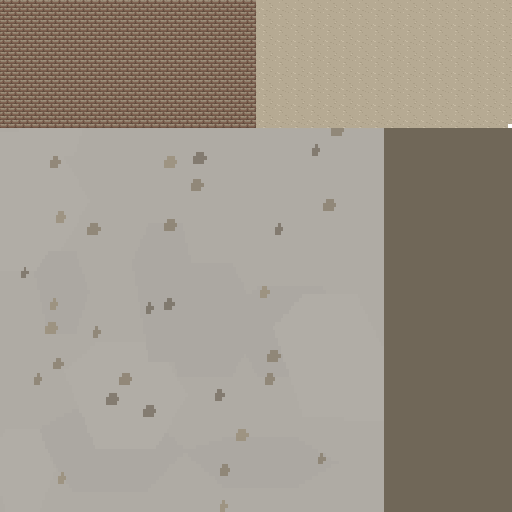
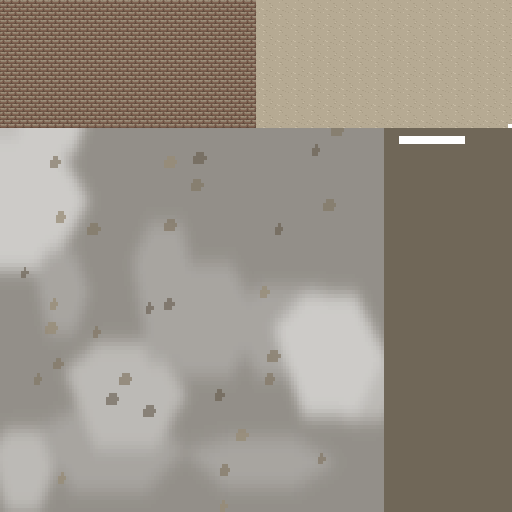
Reduce wreck border geometry and refine patchy ground

diff --git a/src/building_lowpoly.js b/src/building_lowpoly.js
@@ -32,7 +32,7 @@
     wreck:{tint:0xb3a89e,roofTint:0xc5c2bc,debris:0x8f857a,beam:0x7d8b95,top:0xaa9b88,highlight:0xc2b29a,shadow:0x8c7d6b,mortar:0xaa9b88,ink:0x000000}};
   // The light of a wreck's inner wall faces and rubble floor: the middle cel step.
   const WRECK_INSIDE_LIGHT=.7;
-  const WRECK_BORDER={color:0x5e574a,alpha:.35,width:3};
+  const WRECK_BORDER={color:0x514a3e,alpha:.6,width:5,period:64,maskX:400,maskY:136};
   const mix=(a,b,t)=>{const c=i=>Math.round(((a>>i)&255)*(1-t)+((b>>i)&255)*t);return (c(16)<<16)|(c(8)<<8)|c(0);};
   const hash=(x,y)=>{let h=(x*374761393+y*668265263)|0;h=(h^(h>>>13))*1274126177;return ((h^(h>>>16))>>>0)/4294967296;};
   // Cell order of assets/Objects/BuildingMaterials/reference-materials-v3.png.
@@ -599,23 +599,25 @@
         points.forEach((a,i)=>{const b=points[(i+1)%points.length];if((a.y>p.y)!==(b.y>p.y)&&p.x<a.x+(b.x-a.x)*(p.y-a.y)/(b.y-a.y))hit=!hit;});return hit;};
       // Flat ground follows the exact triangulated footprint, including concave returns.
       for(const t of triangulate(points).triangles)faces.push({kind:'roof',debris:true,layer:-1,color:0xffffff,light:1,rawUV:true,points:(cross(...t)<0?[...t].reverse():t).map(p=>({...p,z:0,u:1+(p.x-xlo)/Math.max(1,xhi-xlo)*382,v:129+(p.y-ylo)/Math.max(1,yhi-ylo)*382}))});
-      // A light, translucent broken trace follows the footprint. Seeded dash
-      // lengths and gaps make it weathered rather than a continuous outline.
+      // One masked strip per texture repeat replaces the separate dash quads.
+      // The shared atlas supplies the gaps; no per-building texture bake or
+      // custom shader is needed, and the seeded phase keeps edges varied.
       const border=(poly)=>{
         if(cross(poly[0],poly[1],poly[2])<0)poly=[...poly].reverse();
         for(let i=1;i<poly.length-1;i++)faces.push({kind:'trim',debris:true,footprintBorder:true,
-          layer:-.8,color:WRECK_BORDER.color,opacity:WRECK_BORDER.alpha,light:1,solid:true,
-          points:[poly[0],poly[i],poly[i+1]].map(p=>({...p,z:.01,u:510,v:126}))});
+          layer:-.8,color:WRECK_BORDER.color,opacity:WRECK_BORDER.alpha,light:1,rawUV:true,
+          points:[poly[0],poly[i],poly[i+1]].map(p=>({...p,z:.01}))});
       };
       ring.forEach((a,i)=>{const b=ring[(i+1)%ring.length],len=Math.hypot(b.x-a.x,b.y-a.y)||1;
         const dx=(b.x-a.x)/len,dy=(b.y-a.y)/len,nx=-dy*WRECK_BORDER.width/2,ny=dx*WRECK_BORDER.width/2;
-        let at=1+random(i,83)*4;
-        for(let j=0;at<len-1;j++){
-          const end=Math.min(len-1,at+4+random(i*97+j,89)*4);
+        const phase=Math.floor(random(i,83)*WRECK_BORDER.period);
+        for(let at=1;at<len-1;){
+          const start=(phase+at)%WRECK_BORDER.period,end=Math.min(len-1,at+WRECK_BORDER.period-start);
           const p={x:a.x+dx*at,y:a.y+dy*at},q={x:a.x+dx*end,y:a.y+dy*end};
-          border([{x:p.x+nx,y:p.y+ny},{x:q.x+nx,y:q.y+ny},
-            {x:q.x-nx,y:q.y-ny},{x:p.x-nx,y:p.y-ny}]);
-          at=end+5+random(i*97+j,97)*4;
+          const u0=WRECK_BORDER.maskX+start,u1=u0+end-at,v0=WRECK_BORDER.maskY+1,v1=v0+6;
+          border([{x:p.x+nx,y:p.y+ny,u:u0,v:v0},{x:q.x+nx,y:q.y+ny,u:u1,v:v0},
+            {x:q.x-nx,y:q.y-ny,u:u1,v:v1},{x:p.x-nx,y:p.y-ny,u:u0,v:v1}]);
+          at=end;
         }
       });
       // Chunks of fallen wall: low turned blocks with wall-top lids and end-face
@@ -1072,7 +1074,9 @@
     ctx.imageSmoothingEnabled=false;
     ctx.fillStyle='#968a76';ctx.fillRect(0,0,512,128);
     ctx.fillStyle='#b6aa93';ctx.fillRect(256,0,256,128);
-    ctx.fillStyle='rgba(95,87,74,0.5)';ctx.fillRect(0,128,512,384);
+    ctx.fillStyle='rgba(76,70,59,0.6)';ctx.fillRect(0,128,512,384);
+    ctx.clearRect(399,136,66,8);ctx.fillStyle='#ffffff';
+    for(const [x,w] of [[0,7],[13,5],[26,8],[39,6],[52,4],[64,1]])ctx.fillRect(400+x,136,w,8);
     ctx.fillStyle='#ffffff';ctx.fillRect(508,124,4,4);
     tex.refresh();tex.setFilter(Phaser.Textures.FilterMode.NEAREST);return tex;
   }
@@ -1801,7 +1805,8 @@
     if(recipe.interior)cached=interiorGeometry(cached,LOOK.wallThickness);
     if(door&&!recipe.interior)cached={...cached,faces:[...cached.faces,...doorFaces(door)]};
     const texture=skin?skin.texture:authored?(authored.texture||authored.faces[0].texture):material(scene,recipe),insideTexture=recipe.shape==='wreck'?wreckInteriorSheet(scene,recipe):recipe.interior&&!skin?interiorSheet(scene,texture,recipe):texture;
-    if(!authored&&!skin){(state.textures||=new Set()).add(texture.key);state.textures.add(insideTexture.key);}
+    const borderTexture=recipe.shape==='wreck'?wreckInteriorSheet(scene):null;
+    if(!authored&&!skin){(state.textures||=new Set()).add(texture.key);state.textures.add(insideTexture.key);if(borderTexture)state.textures.add(borderTexture.key);}
     // A standing building is ONE render object sorted at its footprint
     // near edge in the player's screen column. An INTERIOR (Home
     // while the player is inside) is one object PER WALL (interiorGeometry's
@@ -1886,7 +1891,7 @@
         face.color=face.kind==='wall'?0xffffff:recipe.body;
       // The untextured look (LOOK.textured=false) draws each face in its base colour.
       face.flat=face.tileCap?mix(recipe.roof,0x2a2229,.12):face.kind==='roof'&&!face.solid?recipe.roof:face.kind==='wall'?(face.chimney&&recipe.role!=='blacksmith'?LOOK.chimney.sides:recipe.body):face.color??recipe.trim;
-      face.preserveWalls=recipe.role==='fort'||!!face.chimney;face.eaveHeight=mesh.eaveHeight??mesh.height;face.support=support;face.texture=face.interior||face.wreckMasonry||face.wallTop||face.debris||face.steel?insideTexture:texture;face.x=left;face.y=top;face.projected=face.points.map(()=>({}));state.faces.push(face);}
+      face.preserveWalls=recipe.role==='fort'||!!face.chimney;face.eaveHeight=mesh.eaveHeight??mesh.height;face.support=support;face.texture=face.footprintBorder?borderTexture:face.interior||face.wreckMasonry||face.wallTop||face.debris||face.steel?insideTexture:texture;face.x=left;face.y=top;face.projected=face.points.map(()=>({}));state.faces.push(face);}
     return mesh;
     }
   }

diff --git a/test/node/building_lowpoly_scene.test.js b/test/node/building_lowpoly_scene.test.js
@@ -25,7 +25,7 @@
     assert.truthy(BuildingLowPoly.specialGeometry(ring, recipe, [[{x:-40,y:-30},{x:110,y:-30}]], 'walking-cache') !== first,
       'a changed street changes the opening');
   });
-  const ctx2d = () => ({ fillStyle: '', fillRect() {}, drawImage() {}, save() {}, restore() {}, beginPath() {},
+  const ctx2d = () => ({ fillStyle: '', fillRect() {}, clearRect() {}, drawImage() {}, save() {}, restore() {}, beginPath() {},
     rect() {}, clip() {}, imageSmoothingEnabled: false, putImageData() {}, createPattern() { return {}; },
     getImageData() { throw new Error('getImageData read back during a rebuild'); } });
   function stubScene() {
@@ -74,7 +74,7 @@
   }));
   test('Dreamland wrecks: native materials keep damaged geometry and never allocate during rebuild', () => withPhaser(() => {
     const scene=stubScene(),plain=BuildingLowPoly.recipeFor('wreck'),recipe={...plain,artProfile:'dreamland'};
-    for(const key of ['dreamland_wreck_material','dreamland_wreck_interior']) scene.textures.createCanvas(key,512,512);
+    for(const key of ['dreamland_wreck_material','dreamland_wreck_interior','wreck_plinth']) scene.textures.createCanvas(key,512,512);
     scene.textures.createCanvas=()=>{throw Error('Dreamland wreck attempted a runtime material bake');};
     const local=FOOT.map(p=>({x:p.x-100,y:p.y-100}));
     const normal=BuildingLowPoly.specialGeometry(local,plain,[],'dreamland-wreck');
@@ -88,7 +88,7 @@
     assert.truthy(masonry.length>0&&masonry.every(f=>f.texture.key==='dreamland_wreck_interior'),
       'stone sides and caps use the native interior masonry atlas');
     assert.truthy(mesh.faces.some(f=>f.texture.key==='dreamland_wreck_interior'),'interior masonry / rubble atlas selected');
-    assert.truthy(mesh.faces.every(f=>f.texture.key.startsWith('dreamland_wreck_')),'no legacy material leak');
+    assert.truthy(mesh.faces.every(f=>f.footprintBorder?f.texture.key==='wreck_plinth':f.texture.key.startsWith('dreamland_wreck_')),'no legacy material leak');
     assert.falsy(mesh.faces.some(f=>f.standingRoof||f.fallenRoof||f.rafter||f.beam||f.steel),'native profile keeps the roofless broken plinth');
     assert.truthy(mesh.faces.some(f=>f.rubbleTop&&f.rawUV&&f.color===0xffffff),'debris samples native masonry without a tint');
   }));
@@ -108,7 +108,7 @@
     assert.truthy(native!==baseline,'palette cache isolated');
     BuildingLowPoly.begin(scene);
     const mesh=BuildingLowPoly.add(scene,FOOT,recipe,'ridge','rogue-wreck');
-    assert.truthy(mesh.faces.every(f=>f.texture.key.startsWith('rogue_wreck_')),'all surfaces use RA adapted sheets');
+    assert.truthy(mesh.faces.every(f=>f.footprintBorder?f.texture.key==='lowpoly:wreck-plinth-fallback':f.texture.key.startsWith('rogue_wreck_')),'all surfaces use RA adapted sheets');
     assert.truthy(mesh.faces.some(f=>f.rubbleTop&&f.rawUV&&f.color===0xffffff),'rubble samples its prewarmed masonry sheet');
   }));
   test('low-poly buildings: distant road filtering preserves full-network door choice, including crossing segments', () => withPhaser(() => {
@@ -230,7 +230,7 @@
     const recipe=BuildingLowPoly.recipeFor('wreck',{wall:0x777777,roof:0x555555,trim:0x333333});
     const mesh=BuildingLowPoly.add(scene,FOOT,recipe,'ridge','wreck');
     assert.truthy(mesh.faces.length,'rubble material remains');
-    assert.truthy(mesh.faces.some(f=>f.footprintBorder&&f.debris&&f.solid&&f.color===0x5e574a&&f.opacity===.35),
+    assert.truthy(mesh.faces.some(f=>f.footprintBorder&&f.debris&&f.rawUV&&f.color===0x514a3e&&f.opacity===.6),
       'ground border survives atlas conversion with its subtle tint and opacity');
     const top=Math.max(...mesh.faces.flatMap(f=>f.points.map(p=>p.z)));
     assert.inRange(top,10,14,'every wall and rubble piece stays within the low plinth height');

diff --git a/sw.js b/sw.js
@@ -1,7 +1,7 @@
 // Content-addressed resources survive deployments. HTML stays network-first;
 // tiles retain their independent offline cache. Keep two shell generations so
 // old tabs can still request their exact script URLs after a worker update.
-const SHELL_VERSION = 'shell-83803898';
+const SHELL_VERSION = 'shell-31edb050';
 
 const RESOURCE_CACHE = 'terracart-resources-v1';
 const RESOURCE_MANIFEST = './__terracart_resource_manifest__';
@@ -374,7 +374,7 @@ const ASSET_HASHES = {
   "assets/Objects/BuildingMaterials/approved-materials-v1.png": "d4596946",
   "assets/Objects/BuildingMaterials/reference-materials-v3.png": "38fc2ff3",
   "assets/Objects/BuildingMaterials/wreck-floor-cel.png": "8a303ad2",
-  "assets/Objects/BuildingMaterials/wreck-plinth.png": "1b43b845",
+  "assets/Objects/BuildingMaterials/wreck-plinth.png": "83ec9726",
   "assets/Objects/Castle/FDR/atlas.png": "6050c667",
   "assets/Objects/Castle/FDR/floor.png": "3c5de081",
   "assets/Objects/Castle/tower_shapes.png": "0b7d9e6d",

diff --git a/index.html b/index.html
@@ -3356,7 +3356,7 @@
   <script src="src/authored_roof_palette.js?v=8c7edfba"></script>
   <script src="src/authored_buildings.js?v=53a52af1"></script>
   <script src="src/authored_building_renderer.js?v=8da48b5e"></script>
-  <script src="src/building_lowpoly.js?v=d504b83e"></script>
+  <script src="src/building_lowpoly.js?v=20c91c4d"></script>
   <script src="src/fdr_castle_layout.js?v=39a4988f"></script>
   <script src="src/fdr_castle_geometry.js?v=166dd87d"></script>
   <script src="src/fdr_castle_canvas.js?v=61b2dd7d"></script>

diff --git a/tools/build_wreck_plinth.py b/tools/build_wreck_plinth.py
@@ -2,7 +2,7 @@
 """Build the wreck atlas from the approved Foundation v2 option B materials."""
 from pathlib import Path
 import argparse
-from PIL import Image, ImageDraw
+from PIL import Image, ImageDraw, ImageFilter
 
 ROOT = Path(__file__).resolve().parents[1]
 parser = argparse.ArgumentParser(description=__doc__)
@@ -43,12 +43,23 @@ rng = random_values(87)
 for i in range(18):
     x, y = int(next(rng) * 240), int(next(rng) * 180)
     w, h = 10 + int(next(rng) * 22), 6 + int(next(rng) * 12)
-    shade = (89, 82, 70, 128) if i % 2 else (100, 92, 78, 128)
+    # Grime and worn areas expose more of the underlying terrain. Keep the
+    # variation broad and low contrast, with no fine noise or hard patch edges.
+    shade = (87, 79, 67, 100) if i % 2 else (98, 90, 76, 60 + i % 4 * 10)
     draw.polygon([(x-w, y-h//2), (x-w//2, y-h), (x+w//2, y-h),
                   (x+w, y), (x+w//2, y+h), (x-w//2, y+h)], fill=shade)
+floor = floor.filter(ImageFilter.GaussianBlur(2))
+# Adjust only the background before compositing the unchanged stone scatter.
+r, g, b, alpha = floor.split()
+floor = Image.merge('RGBA', (
+    r.point(lambda v: round(v * .8)),
+    g.point(lambda v: round(v * .8)),
+    b.point(lambda v: round(v * .8)),
+    alpha.point(lambda v: min(255, round(v * 1.2))),
+))
 
 # These are restrained mixtures of the wall cap, mortar and brown ground.
-# All options keep the brown background exactly 128/255 (50%, byte-rounded).
+# Untouched ground stays 154/255 (60%); the broad worn patches are translucent.
 styles = {
     'quiet': (90, 2, 4, [(151, 139, 117, 185), (130, 118, 99, 170), (100, 90, 75, 150)]),
     'buried': (65, 3, 6, [(132, 121, 102, 145), (120, 109, 92, 145), (105, 95, 80, 145)]),
@@ -70,6 +81,15 @@ floor.alpha_composite(scatter)
 # Its outline remains geometry-owned; the atlas supplies only the material.
 floor = floor.crop((46, 40, 191, 137)).resize((384, 384), Image.Resampling.NEAREST)
 atlas.paste(floor, (0, 128))
+# Shared border mask: one repeating strip replaces individual dash geometry.
+# White RGB lets the renderer tint the border independently of the wall palette.
+dash = Image.new('RGBA', (66, 8), (255, 255, 255, 0))
+draw = ImageDraw.Draw(dash)
+for start, end in [(0, 7), (13, 18), (26, 34), (39, 45), (52, 56)]:
+    draw.rectangle((start + 1, 0, end, 7), fill='white')
+# Left padding repeats pixel63 (transparent); right repeats pixel0 (opaque).
+draw.rectangle((65, 0, 65, 7), fill='white')
+atlas.paste(dash, (399, 136))
 ImageDraw.Draw(atlas).rectangle((508, 124, 511, 127), fill='white')
 atlas.save(OUT)
 print(OUT)

diff --git a/docs/art/lowpoly-building-styles.md b/docs/art/lowpoly-building-styles.md
@@ -176,11 +176,17 @@ fallen blocks are 2–4 units tall; their count scales with footprint area up to
 speckled caps, and a restrained ground scatter using the same warm stone
 palette. Broad tarnish patches replace the study’s fine tiled grain and red
 brick flecks. The generator also supports buried-rubble and worn-ground previews.
-A subtle three-unit brown border follows the footprint in seeded 4–8-unit
-dashes separated by 5–9-unit gaps, at 35% opacity. It stays on the ground
+A five-unit brown border follows the footprint at 60% opacity. A shared
+64-unit alpha-mask strip supplies broken dashes with a building-seeded phase,
+replacing individual dash polygons without a custom shader or per-building bake.
+All profiles use the shared mask; their masonry palettes remain independent.
+The border stays on the ground
 beneath actors and masonry. Loose rubble uses the same clipped-corner
 footprints as the wall blocks, without sharp highlight strips.
-The subdued brown background has alpha 128/255 (50%, rounded to an 8-bit channel).
+The subdued brown base has alpha 154/255 (60%, byte-rounded). Broad, softly
+blended grime and worn patches reduce ground alpha to 72–120/255, exposing
+more underlying terrain without adding fine grain. The background alone is
+20% darker; embedded stone scatter keeps its original palette.
 Sparse ground chips are composited separately, while raised
 masonry stays opaque. The WebGL overlay must not paint an opaque floor beneath
 this atlas. Ground follows the exact triangulated footprint and sorts below

diff --git a/docs/design/rendering.md b/docs/design/rendering.md
@@ -352,11 +352,17 @@ fallen blocks are 2–4 units tall; their count scales with footprint area up to
 speckled caps, and a restrained ground scatter using the same warm stone
 palette. Broad tarnish patches replace the study’s fine tiled grain and red
 brick flecks. The generator also supports buried-rubble and worn-ground previews.
-A subtle three-unit brown border follows the footprint in seeded 4–8-unit
-dashes separated by 5–9-unit gaps, at 35% opacity. It stays on the ground
+A five-unit brown border follows the footprint at 60% opacity. A shared
+64-unit alpha-mask strip supplies broken dashes with a building-seeded phase,
+replacing individual dash polygons without a custom shader or per-building bake.
+All profiles use the shared mask; their masonry palettes remain independent.
+The border stays on the ground
 beneath actors and masonry. Loose rubble uses the same clipped-corner
 footprints as the wall blocks, without sharp highlight strips.
-The subdued brown background has alpha 128/255 (50%, rounded to an 8-bit channel).
+The subdued brown base has alpha 154/255 (60%, byte-rounded). Broad, softly
+blended grime and worn patches reduce ground alpha to 72–120/255, exposing
+more underlying terrain without adding fine grain. The background alone is
+20% darker; embedded stone scatter keeps its original palette.
 Sparse ground chips are composited separately, while raised
 masonry stays opaque. The WebGL overlay must not paint an opaque floor beneath
 this atlas. Ground follows the exact triangulated footprint and sorts below
